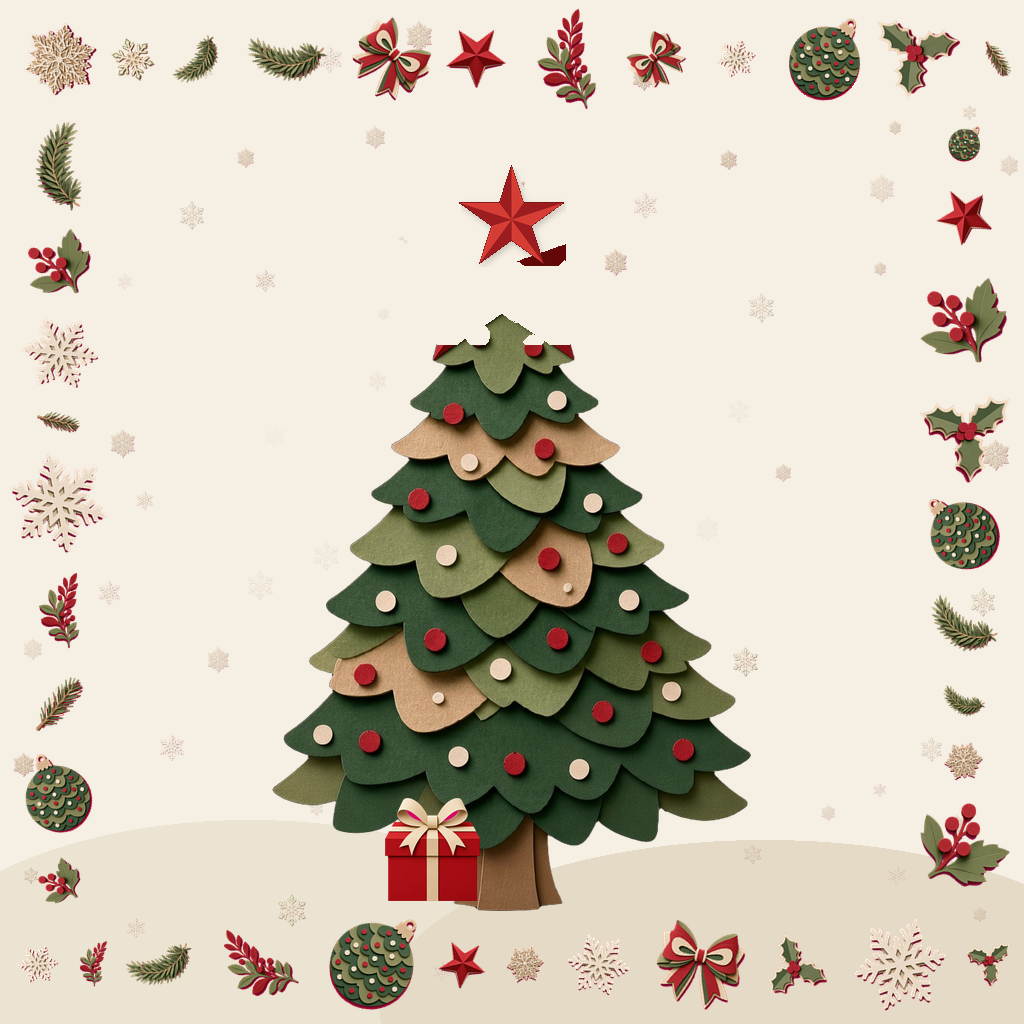
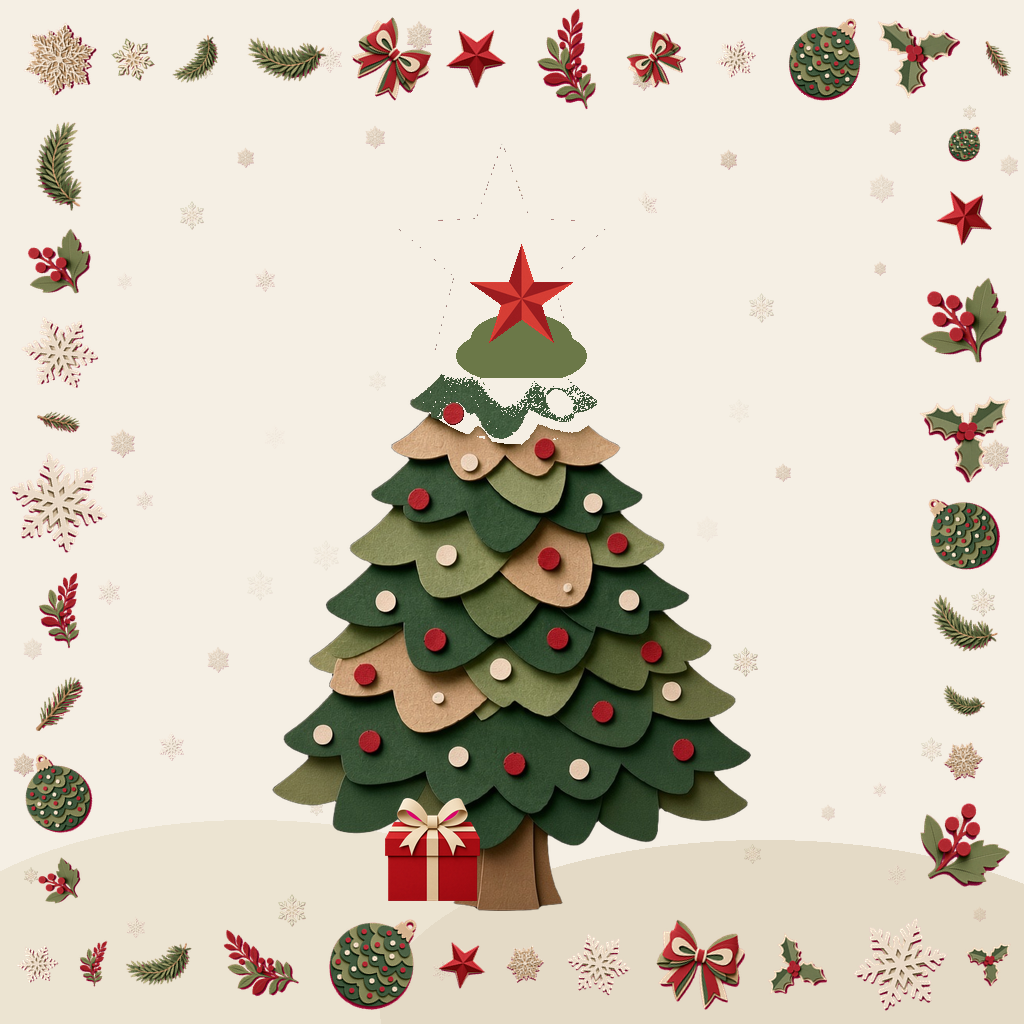
Larger gifts, crisp neon strokes, paper cover v23
Scale up gift boxes in all-style guide-gift (still gapped in hollow).
Rebuild neon gift/bell/next with hard thin-medium strokes (no bloom).
Clean paper cover tip ghost; ship cover-paper-v23 + cache VERS.

Changed region(s): [[0.4062, 0.1562, 0.5938, 0.4375], [0.5938, 0.25, 0.625, 0.2812]]

diff --git a/hosts/neon/src/pixelAssets.js b/hosts/neon/src/pixelAssets.js
@@ -68,13 +68,13 @@ export function loadImage(src, { scrubMagenta = false } = {}) {
 const BASE = import.meta.env.BASE_URL
 
 export const PIXEL = {
-  guideSnow: `${BASE}pixel/guide-snow.jpg?v=64`,
-  guideGift: `${BASE}pixel/guide-gift.jpg?v=64`,
-  guideBell: `${BASE}pixel/guide-bell.jpg?v=64`,
-  guideAntlers: `${BASE}pixel/guide-antlers.jpg?v=64`,
-  guideHat: `${BASE}pixel/guide-hat.jpg?v=64`,
-  guideNext: `${BASE}pixel/guide-next.jpg?v=64`,
-  guideTree: `${BASE}pixel/guide-tree.jpg?v=64`,
+  guideSnow: `${BASE}pixel/guide-snow.jpg?v=65`,
+  guideGift: `${BASE}pixel/guide-gift.jpg?v=65`,
+  guideBell: `${BASE}pixel/guide-bell.jpg?v=65`,
+  guideAntlers: `${BASE}pixel/guide-antlers.jpg?v=65`,
+  guideHat: `${BASE}pixel/guide-hat.jpg?v=65`,
+  guideNext: `${BASE}pixel/guide-next.jpg?v=65`,
+  guideTree: `${BASE}pixel/guide-tree.jpg?v=65`,
   santaHat: `${BASE}pixel/santa-hat.png?v=3`,
   antlers: `${BASE}pixel/antlers.png?v=2`,
   gift: `${BASE}pixel/gift.png?v=52`,

diff --git a/hosts/paper/src/pixelAssets.js b/hosts/paper/src/pixelAssets.js
@@ -68,13 +68,13 @@ export function loadImage(src, { scrubMagenta = false } = {}) {
 const BASE = import.meta.env.BASE_URL
 
 export const PIXEL = {
-  guideSnow: `${BASE}pixel/guide-snow.jpg?v=64`,
-  guideGift: `${BASE}pixel/guide-gift.jpg?v=64`,
-  guideBell: `${BASE}pixel/guide-bell.jpg?v=64`,
-  guideAntlers: `${BASE}pixel/guide-antlers.jpg?v=64`,
-  guideHat: `${BASE}pixel/guide-hat.jpg?v=64`,
-  guideNext: `${BASE}pixel/guide-next.jpg?v=64`,
-  guideTree: `${BASE}pixel/guide-tree.jpg?v=64`,
+  guideSnow: `${BASE}pixel/guide-snow.jpg?v=65`,
+  guideGift: `${BASE}pixel/guide-gift.jpg?v=65`,
+  guideBell: `${BASE}pixel/guide-bell.jpg?v=65`,
+  guideAntlers: `${BASE}pixel/guide-antlers.jpg?v=65`,
+  guideHat: `${BASE}pixel/guide-hat.jpg?v=65`,
+  guideNext: `${BASE}pixel/guide-next.jpg?v=65`,
+  guideTree: `${BASE}pixel/guide-tree.jpg?v=65`,
   santaHat: `${BASE}pixel/santa-hat.png?v=3`,
   antlers: `${BASE}pixel/antlers.png?v=2`,
   gift: `${BASE}pixel/gift.png?v=52`,

diff --git a/hosts/pixel/src/pixelAssets.js b/hosts/pixel/src/pixelAssets.js
@@ -68,13 +68,13 @@ export function loadImage(src, { scrubMagenta = false } = {}) {
 const BASE = import.meta.env.BASE_URL
 
 export const PIXEL = {
-  guideSnow: `${BASE}pixel/guide-snow.jpg?v=64`,
-  guideGift: `${BASE}pixel/guide-gift.jpg?v=64`,
-  guideBell: `${BASE}pixel/guide-bell.jpg?v=64`,
-  guideAntlers: `${BASE}pixel/guide-antlers.jpg?v=64`,
-  guideHat: `${BASE}pixel/guide-hat.jpg?v=64`,
-  guideNext: `${BASE}pixel/guide-next.jpg?v=64`,
-  guideTree: `${BASE}pixel/guide-tree.jpg?v=64`,
+  guideSnow: `${BASE}pixel/guide-snow.jpg?v=65`,
+  guideGift: `${BASE}pixel/guide-gift.jpg?v=65`,
+  guideBell: `${BASE}pixel/guide-bell.jpg?v=65`,
+  guideAntlers: `${BASE}pixel/guide-antlers.jpg?v=65`,
+  guideHat: `${BASE}pixel/guide-hat.jpg?v=65`,
+  guideNext: `${BASE}pixel/guide-next.jpg?v=65`,
+  guideTree: `${BASE}pixel/guide-tree.jpg?v=65`,
   santaHat: `${BASE}pixel/santa-hat.png?v=3`,
   antlers: `${BASE}pixel/antlers.png?v=2`,
   gift: `${BASE}pixel/gift.png?v=52`,

diff --git a/hosts/vintage/src/pixelAssets.js b/hosts/vintage/src/pixelAssets.js
@@ -68,13 +68,13 @@ export function loadImage(src, { scrubMagenta = false } = {}) {
 const BASE = import.meta.env.BASE_URL
 
 export const PIXEL = {
-  guideSnow: `${BASE}pixel/guide-snow.jpg?v=64`,
-  guideGift: `${BASE}pixel/guide-gift.jpg?v=64`,
-  guideBell: `${BASE}pixel/guide-bell.jpg?v=64`,
-  guideAntlers: `${BASE}pixel/guide-antlers.jpg?v=64`,
-  guideHat: `${BASE}pixel/guide-hat.jpg?v=64`,
-  guideNext: `${BASE}pixel/guide-next.jpg?v=64`,
-  guideTree: `${BASE}pixel/guide-tree.jpg?v=64`,
+  guideSnow: `${BASE}pixel/guide-snow.jpg?v=65`,
+  guideGift: `${BASE}pixel/guide-gift.jpg?v=65`,
+  guideBell: `${BASE}pixel/guide-bell.jpg?v=65`,
+  guideAntlers: `${BASE}pixel/guide-antlers.jpg?v=65`,
+  guideHat: `${BASE}pixel/guide-hat.jpg?v=65`,
+  guideNext: `${BASE}pixel/guide-next.jpg?v=65`,
+  guideTree: `${BASE}pixel/guide-tree.jpg?v=65`,
   santaHat: `${BASE}pixel/santa-hat.png?v=3`,
   antlers: `${BASE}pixel/antlers.png?v=2`,
   gift: `${BASE}pixel/gift.png?v=52`,

diff --git a/src/pixelAssets.js b/src/pixelAssets.js
@@ -68,13 +68,13 @@ export function loadImage(src, { scrubMagenta = false } = {}) {
 const BASE = import.meta.env.BASE_URL
 
 export const PIXEL = {
-  guideSnow: `${BASE}pixel/guide-snow.jpg?v=64`,
-  guideGift: `${BASE}pixel/guide-gift.jpg?v=64`,
-  guideBell: `${BASE}pixel/guide-bell.jpg?v=64`,
-  guideAntlers: `${BASE}pixel/guide-antlers.jpg?v=64`,
-  guideHat: `${BASE}pixel/guide-hat.jpg?v=64`,
-  guideNext: `${BASE}pixel/guide-next.jpg?v=64`,
-  guideTree: `${BASE}pixel/guide-tree.jpg?v=64`,
+  guideSnow: `${BASE}pixel/guide-snow.jpg?v=65`,
+  guideGift: `${BASE}pixel/guide-gift.jpg?v=65`,
+  guideBell: `${BASE}pixel/guide-bell.jpg?v=65`,
+  guideAntlers: `${BASE}pixel/guide-antlers.jpg?v=65`,
+  guideHat: `${BASE}pixel/guide-hat.jpg?v=65`,
+  guideNext: `${BASE}pixel/guide-next.jpg?v=65`,
+  guideTree: `${BASE}pixel/guide-tree.jpg?v=65`,
   santaHat: `${BASE}pixel/santa-hat.png?v=3`,
   antlers: `${BASE}pixel/antlers.png?v=2`,
   gift: `${BASE}pixel/gift.png?v=52`,

diff --git a/hosts/neon/src/vintageAssets.js b/hosts/neon/src/vintageAssets.js
@@ -7,13 +7,13 @@ const BASE = import.meta.env.BASE_URL
 const V = `${BASE}vintage`
 
 export const VINTAGE = {
-  guideSnow: `${V}/guide-snow.jpg?v=16`,
-  guideGift: `${V}/guide-gift.jpg?v=16`,
-  guideBell: `${V}/guide-bell.jpg?v=16`,
-  guideAntlers: `${V}/guide-antlers.jpg?v=16`,
-  guideHat: `${V}/guide-hat.jpg?v=16`,
-  guideNext: `${V}/guide-next.jpg?v=16`,
-  guideTree: `${V}/guide-tree.jpg?v=16`,
+  guideSnow: `${V}/guide-snow.jpg?v=17`,
+  guideGift: `${V}/guide-gift.jpg?v=17`,
+  guideBell: `${V}/guide-bell.jpg?v=17`,
+  guideAntlers: `${V}/guide-antlers.jpg?v=17`,
+  guideHat: `${V}/guide-hat.jpg?v=17`,
+  guideNext: `${V}/guide-next.jpg?v=17`,
+  guideTree: `${V}/guide-tree.jpg?v=17`,
   santaHat: `${V}/santa-hat.png?v=4`,
   antlers: `${V}/antlers.png?v=4`,
   gift: `${V}/gift.png?v=4`,

diff --git a/hosts/paper/src/vintageAssets.js b/hosts/paper/src/vintageAssets.js
@@ -7,13 +7,13 @@ const BASE = import.meta.env.BASE_URL
 const V = `${BASE}vintage`
 
 export const VINTAGE = {
-  guideSnow: `${V}/guide-snow.jpg?v=16`,
-  guideGift: `${V}/guide-gift.jpg?v=16`,
-  guideBell: `${V}/guide-bell.jpg?v=16`,
-  guideAntlers: `${V}/guide-antlers.jpg?v=16`,
-  guideHat: `${V}/guide-hat.jpg?v=16`,
-  guideNext: `${V}/guide-next.jpg?v=16`,
-  guideTree: `${V}/guide-tree.jpg?v=16`,
+  guideSnow: `${V}/guide-snow.jpg?v=17`,
+  guideGift: `${V}/guide-gift.jpg?v=17`,
+  guideBell: `${V}/guide-bell.jpg?v=17`,
+  guideAntlers: `${V}/guide-antlers.jpg?v=17`,
+  guideHat: `${V}/guide-hat.jpg?v=17`,
+  guideNext: `${V}/guide-next.jpg?v=17`,
+  guideTree: `${V}/guide-tree.jpg?v=17`,
   santaHat: `${V}/santa-hat.png?v=2`,
   antlers: `${V}/antlers.png?v=2`,
   gift: `${V}/gift.png?v=2`,

diff --git a/hosts/vintage/src/vintageAssets.js b/hosts/vintage/src/vintageAssets.js
@@ -5,7 +5,7 @@ import { loadImage } from './pixelAssets.js'
 
 const BASE = import.meta.env.BASE_URL
 const V = `${BASE}vintage`
-const VER = '16'
+const VER = '17'
 
 export const VINTAGE = {
   guideSnow: `${V}/guide-snow.jpg?v=${VER}`,

diff --git a/src/vintageAssets.js b/src/vintageAssets.js
@@ -5,7 +5,7 @@ import { loadImage } from './pixelAssets.js'
 
 const BASE = import.meta.env.BASE_URL
 const V = `${BASE}vintage`
-const VER = '16'
+const VER = '17'
 
 export const VINTAGE = {
   guideSnow: `${V}/guide-snow.jpg?v=${VER}`,

diff --git a/hosts/paper/src/paperAssets.js b/hosts/paper/src/paperAssets.js
@@ -5,7 +5,7 @@ import { loadImage } from './pixelAssets.js'
 
 const BASE = import.meta.env.BASE_URL
 const P = `${BASE}paper`
-const VER = '20'
+const VER = '21'
 
 export const PAPER = {
   guideSnow: `${P}/guide-snow.jpg?v=${VER}`,

diff --git a/src/paperAssets.js b/src/paperAssets.js
@@ -5,7 +5,7 @@ import { loadImage } from './pixelAssets.js'
 
 const BASE = import.meta.env.BASE_URL
 const P = `${BASE}paper`
-const VER = '20'
+const VER = '21'
 
 export const PAPER = {
   guideSnow: `${P}/guide-snow.jpg?v=${VER}`,

diff --git a/hosts/neon/src/neonAssets.js b/hosts/neon/src/neonAssets.js
@@ -5,7 +5,7 @@ import { loadImage } from './pixelAssets.js'
 
 const BASE = import.meta.env.BASE_URL
 const N = `${BASE}neon`
-const VER = '18'
+const VER = '19'
 const FLAKE_VER = '4'
 
 export const NEON = {
